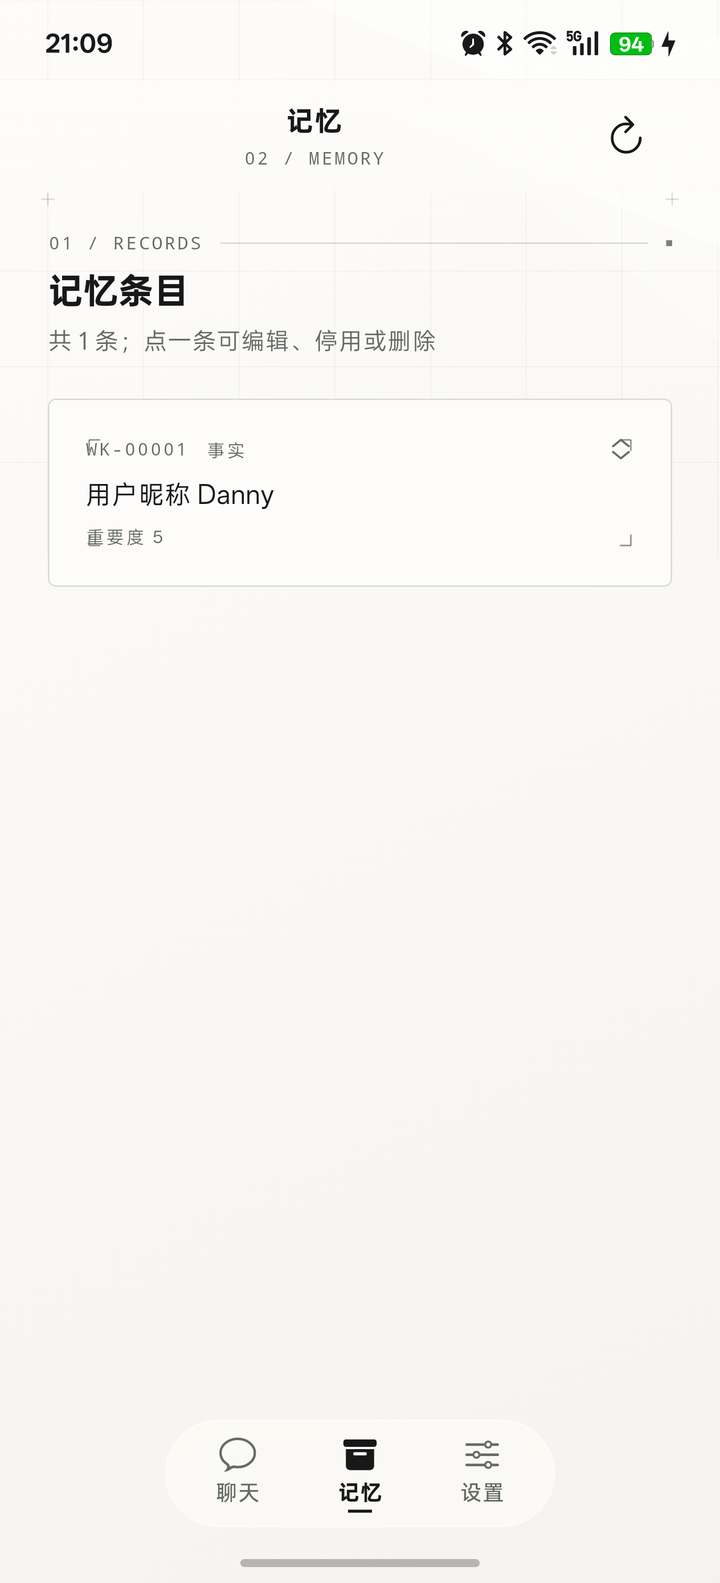
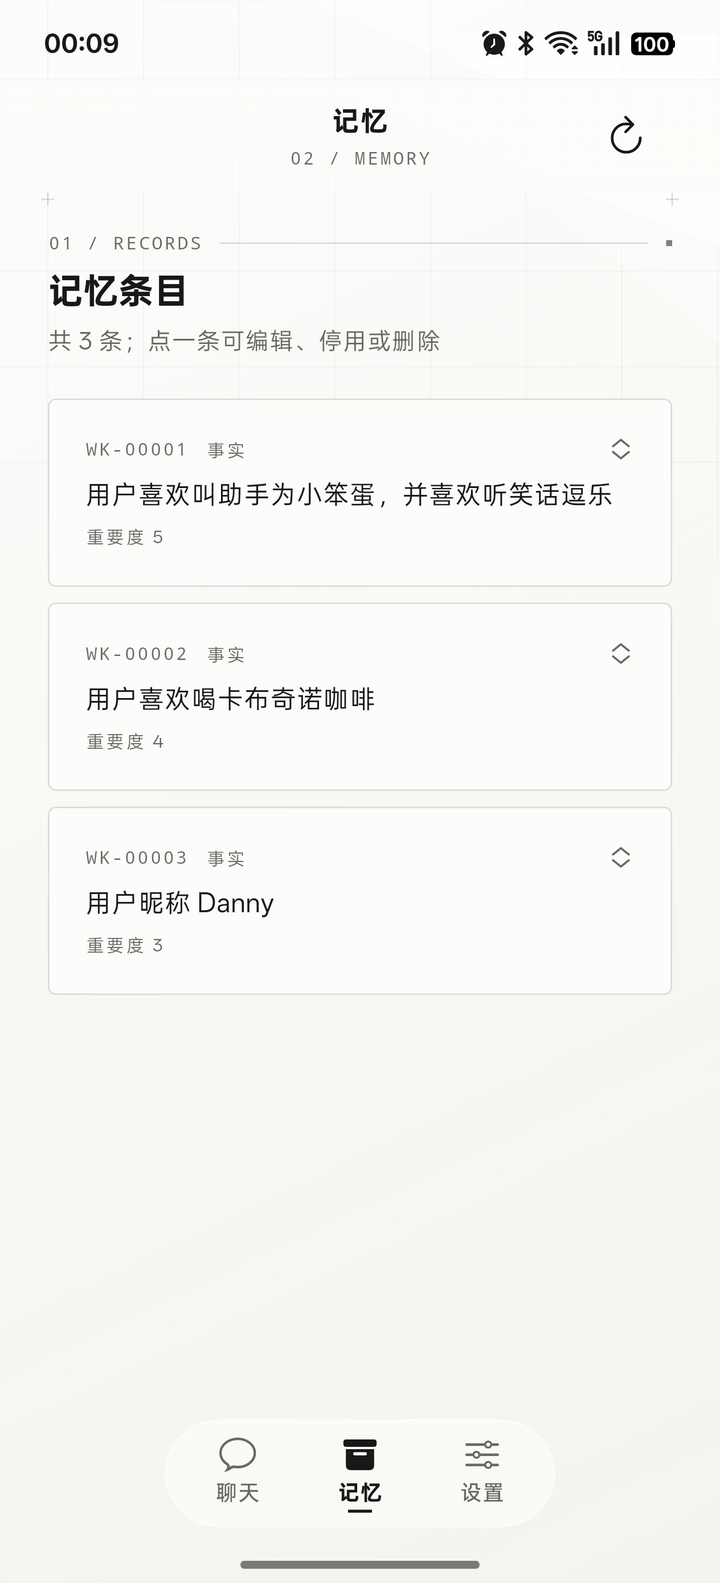
docs: 换成用户提供的聊天空态与记忆页截图

diff --git a/README.md b/README.md
@@ -5,9 +5,9 @@
 界面按「纸页与档案」设计语言做成一本摊开的档案册——暖白纸面、编号与细线、克制的玻璃。  
 技术栈 Flutter + [nobodywho](https://pub.dev/packages/nobodywho)（llama.cpp 的 Flutter 绑定），默认模型 Qwen3.5-2B Q4_K_M。
 
-| 记忆 | 设置 |
-| --- | --- |
-| ![记忆](docs/screenshots/memory.png) | ![设置](docs/screenshots/settings.png) |
+| 聊天 | 记忆 | 设置 |
+| --- | --- | --- |
+| ![聊天](docs/screenshots/chat.png) | ![记忆](docs/screenshots/memory.png) | ![设置](docs/screenshots/settings.png) |
 
 ## 目录
 
